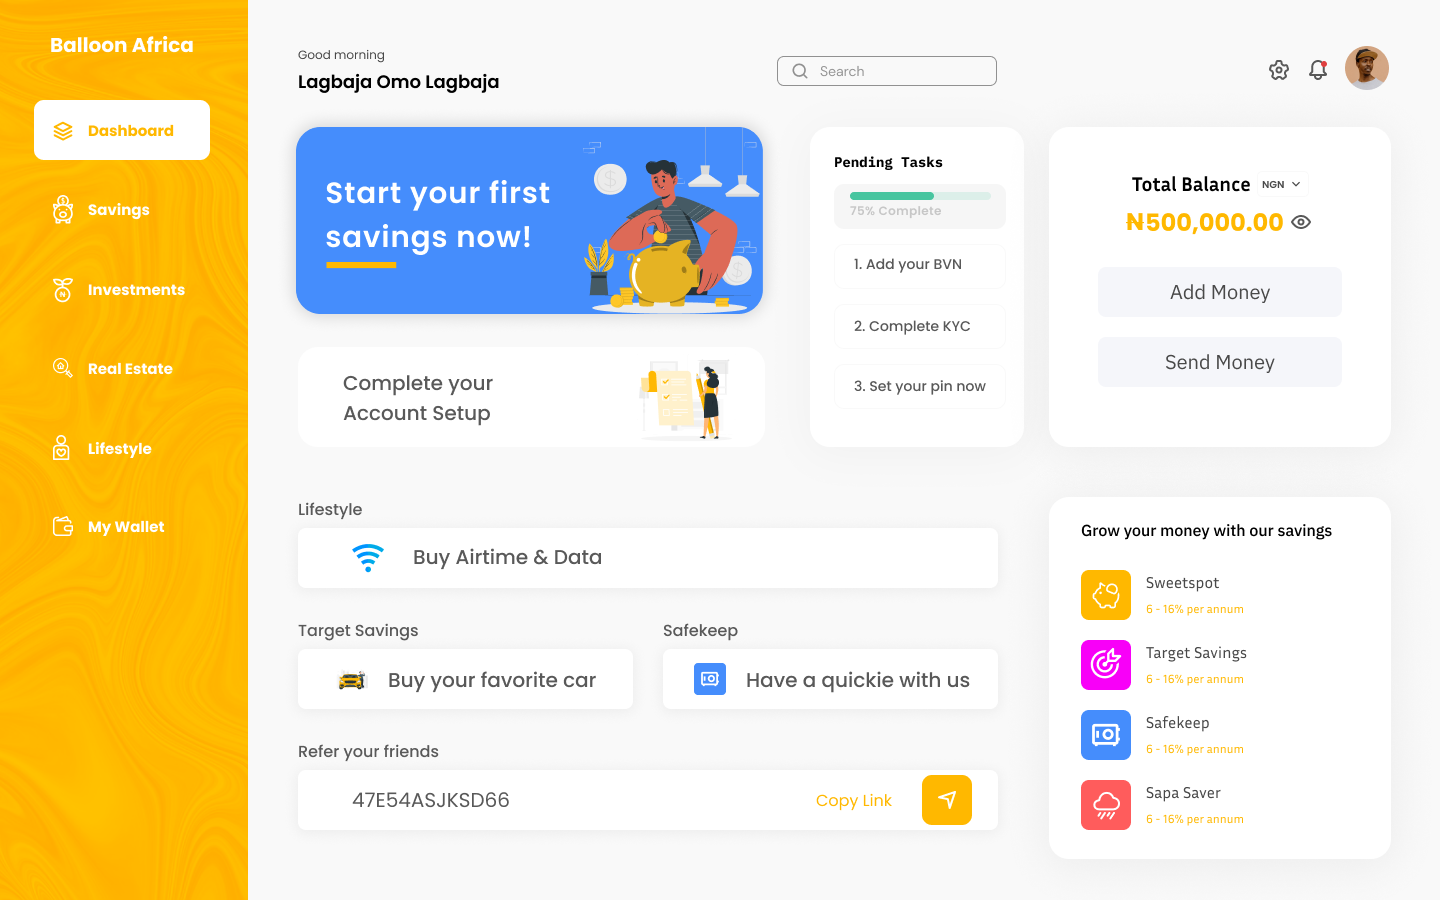
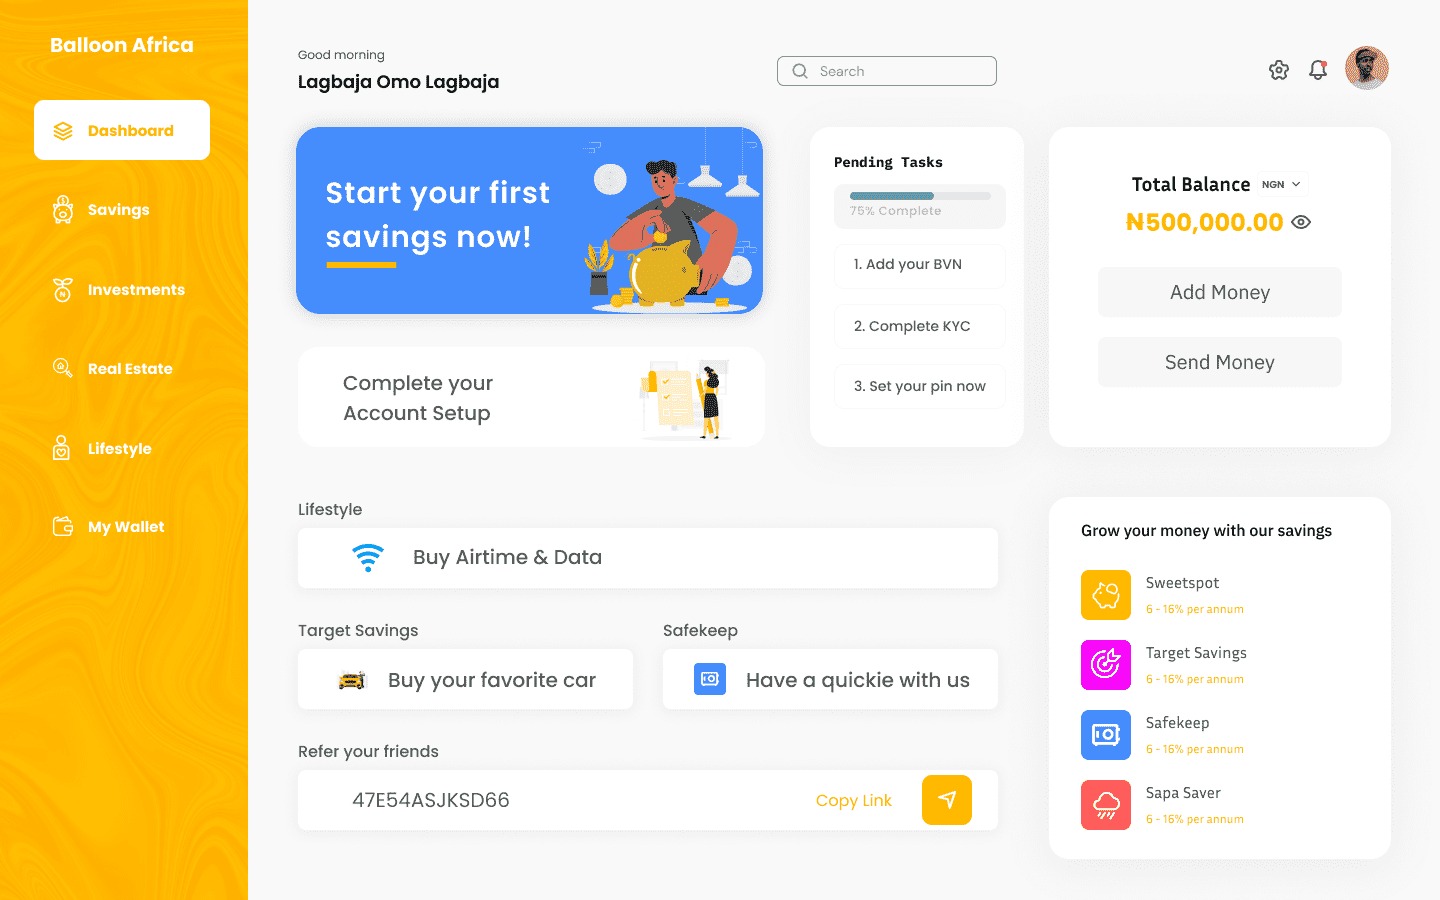
Added project list

diff --git a/src/components/Projects/Projects.js b/src/components/Projects/Projects.js
@@ -6,13 +6,13 @@ import {
   GridContainer,
   HeaderThree,
   UtilityList,
-  Img,
   ProjectsWrapper,
   HeaderPreTitle,
   HeaderTitle,
   SectionHeader,
 } from "./ProjectsStyles";
 import { projects } from "../../constants/constants";
+import Image from "next/image";
 
 const ProjectsComponent = () => (
   <ProjectsWrapper id="projects">
@@ -24,7 +24,8 @@ const ProjectsComponent = () => (
     <GridContainer>
       {projects.map(({ id, image, title, description, visit }) => (
         <BlogCard key={id}>
-          <Img src={image} />
+          <Image src={image} width={750} height={450} />
+
           <HeaderThree title>{title}</HeaderThree>
 
           <CardInfo>{description}</CardInfo>

diff --git a/src/components/Projects/ProjectsStyles.js b/src/components/Projects/ProjectsStyles.js
@@ -48,17 +48,6 @@ export const ProjectsWrapper = styled.div`
     padding: 0px 0px 0px 1rem;
   }
 `;
-export const Img = styled.img`
-  width: 100%;
-  height: 450px;
-  margin-bottom: 0;
-  overflow: hidden;
-  border-radius: 1rem 1rem 0px 0px;
-
-  @media ${(props) => props.theme.breakpoints.sm} {
-    height: 100%;
-  }
-`;
 
 export const GridContainer = styled.section`
   margin-top: 5rem;
